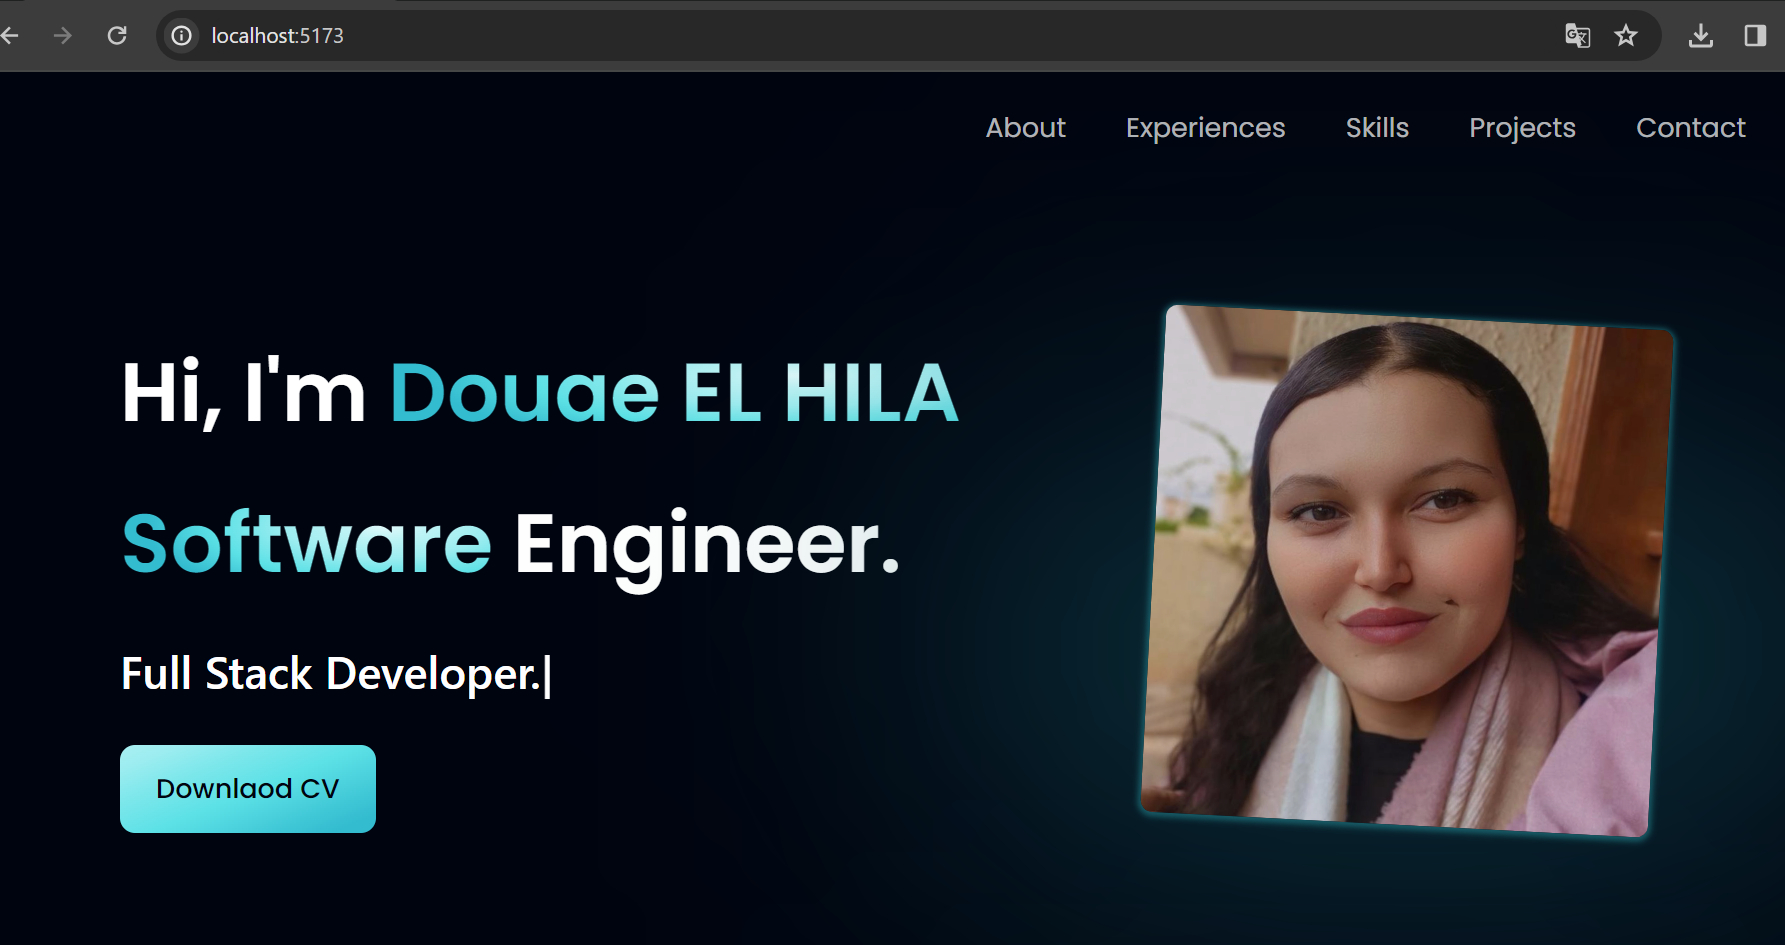
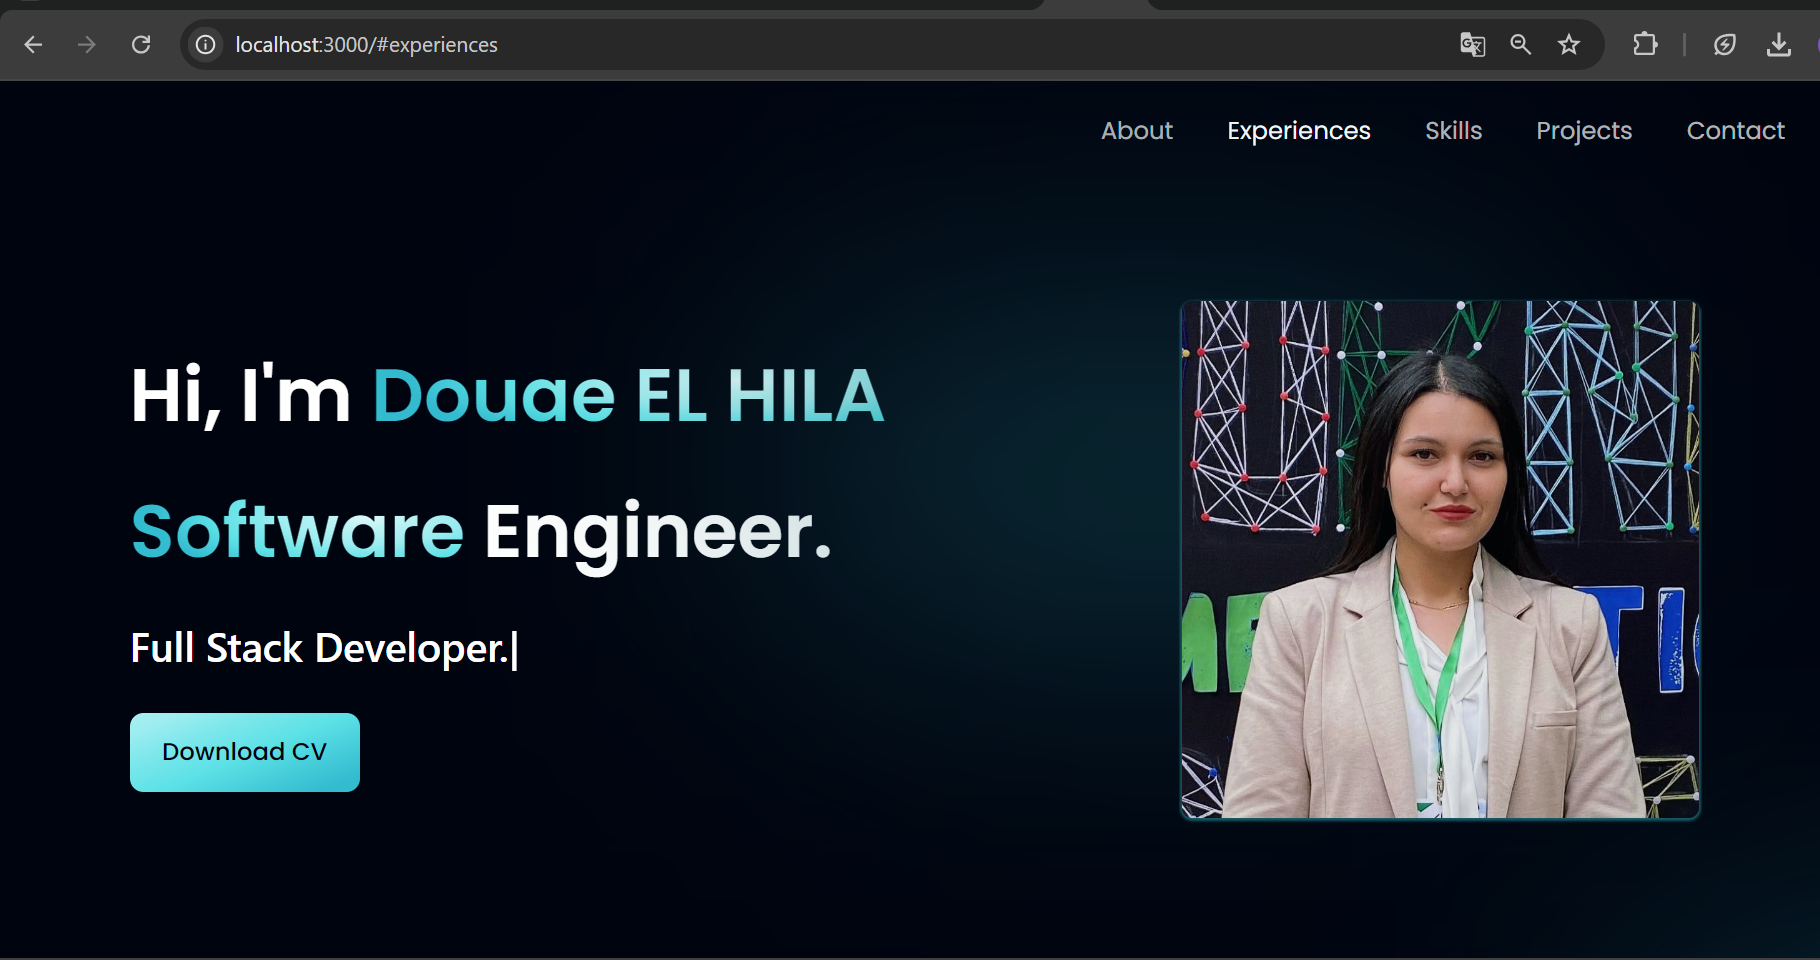
Third commit

diff --git a/src/constants/index.js b/src/constants/index.js
@@ -1,5 +1,6 @@
-import { html , css , js , tailwind , bootstrap , react, java ,spring, springboot , mysql , php , laravel,
-  vscode, eclipse , github , git , slack, trello, intellij, docker , emailjs
+import {
+    html, css, js, tailwind, bootstrap, react, java, spring, springboot, mysql, php, laravel,
+    vscode, eclipse, github, git, slack, trello, intellij, docker, emailjs, postgresql, elasticsearch , nextjs
 } from "../assets";
 import React from "react";
 
@@ -96,9 +97,16 @@ export const aboutData = [
 
 export const experiences = [
     {
-        date: "Sept 2020 - June 2022",
+        date: "Sept 2023 - June 2024",
         title: "Ecole Nationale des Sciences Appliquées Oujda",
-        text: "Preparatory Cycle - Sciences and Techniques for Engineering. Algorithms and C Programming Language",
+        text: "Continued Bachelor's Degree in Computer Engineering with focus on the following technologies:",
+        technologies: [
+            "Web Development Frameworks: React.js, Laravel",
+            "Java Framework: Spring",
+            "Design Patterns",
+            "Project Management Methodologies: Agile (Scrum, Kanban)",
+            "Distributed Systems and Microservices"
+        ]
     },
     {
         date: "Sept 2022 - June 2023",
@@ -114,34 +122,41 @@ export const experiences = [
         ]
     },
     {
-        date: "June 15, 2023 - July 15, 2023",
-        title: "Internship at FCPO Web Development Agency",
-        text: "During this one-month internship, gained practical experience in web development at FCPO Web Development Agency. Received an internship certificate.",
+        date: "Sept 2020 - June 2022",
+        title: "Ecole Nationale des Sciences Appliquées Oujda",
+        text: "Preparatory Cycle - Sciences and Techniques for Engineering. Algorithms and C Programming Language",
+    },
+    {
+        date: "1st of July , 2024 - August 30 , 2024",
+        title: "Internship at Novelis Oujda",
+        text: "This internship allowed me to gain valuable experience in integrating advanced AI solutions and developing applications based on language models.",
         linkText: "View Certificate",
         linkUrl: "https://www.linkedin.com/in/douae-el-hila-252809244/overlay/certifications/1887351806/multiple-media-viewer/?profileId=ACoAADyh3h4B5CwX9BW9Ox7cxrIwsOti71243do&treasuryMediaId=1704841885982",
     },
     {
-        date: "Sept 2023 - June 2024",
-        title: "Ecole Nationale des Sciences Appliquées Oujda",
-        text: "Continued Bachelor's Degree in Computer Engineering with focus on the following technologies:",
-        technologies: [
-            "Web Development Frameworks: React.js, Laravel",
-            "Java Framework: Spring",
-            "Design Patterns",
-            "Project Management Methodologies: Agile (Scrum, Kanban)",
-            "Distributed Systems and Microservices"
-        ]
-    },
-    {
-        date: "April 2024",
-        title: "AmigosCode - Spring Boot for Beginners",
-        text: "Completed this course offered by AmigosCode. Covered fundamental concepts of Spring Boot, including setting up a Spring Boot application, building RESTful APIs, and integrating with databases.",
+        date: "June 15, 2023 - August 15, 2023",
+        title: "Internship at FCPO Web Development Agency",
+        text: "During this internship, gained practical experience in web development at FCPO Web Development Agency. Received an internship certificate.",
         linkText: "View Certificate",
-        linkUrl: "https://drive.google.com/file/d/12j8sCkLADZk_PHdRlL2M7Bo7irE4jCaY/view?usp=sharing",
+        linkUrl: "https://www.linkedin.com/in/douae-el-hila-252809244/overlay/certifications/1887351806/multiple-media-viewer/?profileId=ACoAADyh3h4B5CwX9BW9Ox7cxrIwsOti71243do&treasuryMediaId=1704841885982",
+    },
+    {
+        date: "May 2024",
+        title: "Certification Coursera - Spring Data Repositories",
+        text: "Completed this course on Spring Data Repositories, learning key concepts like CRUD operations, pagination, sorting, and custom queries to manage data efficiently in Java applications.",
+        linkText: "View Certificate",
+        linkUrl: "https://drive.google.com/file/d/1jEJoHaauFmRMkmQbnR3GSPiNG32_U-tU/view?usp=sharing",
     },
     {
         date: "April 2024",
-        title: "AmigosCode - Spring Security",
+        title: "Certification Coursera - Spring MVC, Spring Boot and Rest Controllers",
+        text: "Completed this course on Coursera covering Spring MVC, Spring Boot, and Rest Controllers. Learned about building web applications with Spring MVC, creating RESTful APIs with Spring Boot, and implementing controllers for handling web requests.",
+        linkText: "View Certificate",
+        linkUrl: "https://drive.google.com/file/d/1KKssCSSBERQLhXdesJuwSjEAFYT9FB5T/view?usp=sharing",
+    },
+    {
+        date: "April 2024",
+        title: "Certification AmigosCode - Spring Security",
         text: "Completed this offered by AmigosCode. Explored advanced security features in Spring, including authentication, authorization, and securing RESTful APIs.",
         linkText: "View Certificate",
         linkUrl: "https://drive.google.com/file/d/1x30b-iKyqt7Yghjl65kZSjlljZBTNCH2/view?usp=sharing",
@@ -155,10 +170,13 @@ export const skills = [
     { icon: tailwind, tooltip: 'Tailwind CSS' },
     { icon: bootstrap, tooltip: 'Bootstrap' },
     { icon: react, tooltip: 'React Js' },
+    { icon: nextjs, tooltip: 'Next Js' },
     { icon: java, tooltip: 'Java' },
     { icon: spring, tooltip: 'Spring' },
     { icon: springboot, tooltip: 'Spring Boot' },
     { icon: mysql, tooltip: 'MySQL' },
+    { icon: postgresql, tooltip: 'PostgreSQL' },
+    { icon: elasticsearch, tooltip: 'ElasticSearch' },
     { icon: php, tooltip: 'PHP' },
     { icon: laravel, tooltip: 'Laravel' },
     { icon: emailjs, tooltip: 'Email Js' },
@@ -179,22 +197,22 @@ export const tools = [
 
 export const projects = [
     {
-        name: "BlogBurst Blog Website",
-        duration: "2 months",
-        methodology: "Agile Methodology - Scrum, with 3 team members and 2 sprints.",
-        content: "Platform designed for blogging experiences. Administrators can manage users, categories, and posts, while users contribute content to public pages or specific categories. The platform encourages active participation of content creators.",
-        img: "blog.png",
-        technologies: [0, 1, 2, 10, 9],
-        href: "https://github.com/douaeelh2/blog",
+        name: "PFE Management PMastery",
+        duration: "4 months",
+        methodology: "Agile Methodology - Scrum, with 4 team members and 4 sprints.",
+        content: "This platform simplifies end-of-study project management by providing tools to coordinate supervisors, students, assignments, and defenses. It enables effortless allocation of projects, streamlined scheduling of defenses, and centralized organization.",
+        img: "pmastery.png",
+        technologies: [4, 5, 8, 7 , 10],
+        href: "https://github.com/douaeelh2/ContactApp",
     },
     {
-        name: "Home Renovation Services",
-        duration: "1 month",
-        methodology: "Agile Methodology - Scrum, with 2 team members and 1 sprint.",
-        content: "Developed during my initiation internship. The application showcases the client's projects, their posts, their partners, and the services they offer such as Electricity, Plumbing, and Air Conditioning. Anyone interested can fill out a form on the desired service.",
-        img: "hrs.png",
-        technologies: [0, 1, 2, 4, 10, 9],
-        href: "https://hrs.fcpo.agency",
+        name: "IntelliAPI",
+        duration: "2 months",
+        methodology: "Agile Methodology - Scrum, with 2 team members and 2 sprints.",
+        content:"Developed a web application to read and parse OpenAPI files, select APIs, and use an LLM to translate natural language queries into API calls. The application generates graphs, lists, and tables to visualize and analyze the data.",
+        img: "dashboard1.png",
+        technologies: [3, 6, 9, 8 , 11],
+        href: "https://drive.google.com/file/d/1hrbOVMdeM8HwT38q5ureKqfRvhKWZyN0/view?usp=sharing",
     },
     {
         name: "Project Task Management",
@@ -202,24 +220,33 @@ export const projects = [
         methodology: "Agile Methodology - Scrum, with 3 team members and 3 sprints.",
         content: "Comprehensive management site that enables teams to collaborate by tracking projects, tasks, and users. With a user-friendly interface, our site aims to simplify project planning, task assignment, and overall project management.",
         img: "project-task.png",
-        technologies: [3, 5, 11, 9],
+        technologies: [3, 5, 14, 10],
         href: "https://github.com/douaeelh2/Project-Task-Management",
     },
     {
-        name: "PFE Management PMastery",
-        duration: "4 months",
-        methodology: "Agile Methodology - Scrum, with 4 team members and 4 sprints.",
-        content: "This platform simplifies end-of-study project management by providing tools to coordinate supervisors, students, assignments, and defenses. It enables effortless allocation of projects, streamlined scheduling of defenses, and centralized organization.",
-        img: "pmastery.png",
-        technologies: [4, 5, 8, 7 , 9],
-        href: "https://github.com/douaeelh2/ContactApp",
+        name: "BlogBurst Blog Website",
+        duration: "2 months",
+        methodology: "Agile Methodology - Scrum, with 3 team members and 2 sprints.",
+        content: "Platform designed for blogging experiences. Administrators can manage users, categories, and posts, while users contribute content to public pages or specific categories. The platform encourages active participation of content creators.",
+        img: "blog.png",
+        technologies: [0, 1, 2, 13, 10],
+        href: "https://github.com/douaeelh2/blog",
+    },
+    {
+        name: "Home Renovation Services",
+        duration: "2 months",
+        methodology: "Agile Methodology - Scrum, with 2 team members and 2 sprints.",
+        content: "Developed during my initiation internship. The application showcases the client's projects, their posts, their partners, and the services they offer such as Electricity, Plumbing, and Air Conditioning. Anyone interested can fill out a form on the desired service.",
+        img: "hrs.png",
+        technologies: [0, 1, 2, 4, 13, 10],
+        href: "https://hrs.fcpo.agency",
     },
     {
         name: "My Portfolio",
         duration: "1 month",
         content: "Explore my portfolio seamlessly integrated within the projects section. See firsthand how I leverage my full stack skills to create a cohesive user experience while showcasing my professional journey and technical expertise.",
         img: "portfolio.png",
-        technologies: [3, 5, 12],
+        technologies: [3, 5, 15],
         href: "https://github.com/douaeelh2/MyPortfolio",
     },
     {
@@ -228,9 +255,10 @@ export const projects = [
         methodology: "Agile Methodology - Scrum, with 3 team members and 1 sprint.",
         content: "This Mobile Application aims to provide contact management such as adding, editing, deleting, searching contacts, and displaying details for each contact.",
         img: "contactapp.png",
-        technologies: [6],
+        technologies: [7],
         href: "https://github.com/douaeelh2/ContactApp",
-    },
+    }
+
 ];
 
 

diff --git a/src/widgets/Toast.jsx b/src/widgets/Toast.jsx
@@ -1,25 +1,32 @@
+// components/Toast.js
 import { motion } from 'framer-motion';
 
-const Toast = () => (
+const Toast = ({ closeToast, type, message }) => (
     <motion.div
         initial={{ opacity: 0, y: -100 }}
         animate={{ opacity: 1, y: 0 }}
         exit={{ opacity: 0, y: -100 }}
-        className="max-w-xs feature-card border border-gray-700 rounded-xl shadow-lg toast-right z-50"
-        role="alert">
+        className={`max-w-xs feature-card border rounded-xl shadow-lg toast-right z-50 ${type === 'success' ? 'bg-green-500' : 'bg-red-500'}`}
+        role="alert"
+    >
         <div className="flex p-4">
             <div className="flex-shrink-0">
-                <svg className="flex-shrink-0 size-4 text-teal-400 mt-0.5"
-                     xmlns="http://www.w3.org/2000/svg" width="16" height="16" fill="currentColor"
-                     viewBox="0 0 16 16">
-                    <path
-                        d="M16 8A8 8 0 1 1 0 8a8 8 0 0 1 16 0zm-3.97-3.03a.75.75 0 0 0-1.08.022L7.477 9.417 5.384 7.323a.75.75 0 0 0-1.06 1.06L6.97 11.03a.75.75 0 0 0 1.079-.02l3.992-4.99a.75.75 0 0 0-.01-1.05z"></path>
-                </svg>
+                {type === 'success' ? (
+                    <svg className="flex-shrink-0 size-4 text-teal-400 mt-0.5" xmlns="http://www.w3.org/2000/svg" width="16" height="16" fill="currentColor" viewBox="0 0 16 16">
+                        <path d="M16 8A8 8 0 1 1 0 8a8 8 0 0 1 16 0zm-3.97-3.03a.75.75 0 0 0-1.08.022L7.477 9.417 5.384 7.323a.75.75 0 0 0-1.06 1.06L6.97 11.03a.75.75 0 0 0 1.079-.02l3.992-4.99a.75.75 0 0 0-.01-1.05z"></path>
+                    </svg>
+                ) : (
+                    <svg className="flex-shrink-0 size-4 text-red-400 mt-0.5" xmlns="http://www.w3.org/2000/svg" width="16" height="16" fill="currentColor" viewBox="0 0 16 16">
+                        <path d="M8 1.5a6.5 6.5 0 1 0 0 13A6.5 6.5 0 0 0 8 1.5zm.5 9.5a.5.5 0 1 1-1 0V7.5a.5.5 0 1 1 1 0v3.5zM8 6a.5.5 0 0 1-.5-.5V5a.5.5 0 0 1 1 0v.5A.5.5 0 0 1 8 6z"></path>
+                    </svg>
+                )}
             </div>
             <div className="ms-3">
-                <p className="text-sm text-gray-200">
-                    Your email has been sent successfully! </p>
+                <p className="text-sm text-white">
+                    {message}
+                </p>
             </div>
+            <button className="ml-4 text-white" onClick={closeToast}>×</button>
         </div>
     </motion.div>
 );

diff --git a/src/components/Hero.jsx b/src/components/Hero.jsx
@@ -35,8 +35,8 @@ const Hero = () => {
                     <div className="flex items-center flex-col sm:flex-row mt-8">
                         <button type="button"
                                 className={`py-4 px-6 font-poppins font-medium text-[18px] text-primary bg-blue-gradient hover:scale-[0.99] rounded-[10px] outline-none ${styles}`}>
-                            <a href="https://drive.google.com/file/d/1sVElSEZEH0Ixl_NX4pAH-G9WRUAkNNiZ/view?usp=sharing" target="_blank" rel="noopener noreferrer">Download
-                                CV</a>
+                            <a href="https://drive.google.com/file/d/15RiKmR_B6o790jp6r1176v8kpHgd4_dQ/view?usp=sharing" target="_blank" rel="noopener noreferrer">
+                                Download CV</a>
                         </button>
                     </div>
                 </div>
@@ -44,8 +44,8 @@ const Hero = () => {
                 {/* image section */}
                 <div className="col-span-12 md:col-span-6 lg:col-span-5 md:w-[70%] lg:w-[75%] h-[100%] hidden md:block">
                     <div
-                        className={`flex-1 flex ${styles.flexCenter} relative overflow-hidden rounded-lg transform rotate-3 feature-img`}>
-                        <img src="/images/DouaeELHILA.jpeg" alt="Hero" className="w-[100%] h-[100%] "/>
+                        className={`flex-1 flex ${styles.flexCenter} relative overflow-hidden rounded-lg transform feature-img`}>
+                        <img src="/images/doudou.jpeg" alt="Hero" className="w-[100%] h-[100%] "/>
                     </div>
                 </div>
             </div>

diff --git a/src/widgets/ExperienceCard.jsx b/src/widgets/ExperienceCard.jsx
@@ -10,7 +10,10 @@ const ExperienceCard = ({ index, date, title, text, technologies, linkText, link
                 <div className="flex-col items-center justify-between space-x-2 mb-1">
                     <time className="mb-1 text-sm font-normal leading-none text-gradient">{date}</time>
                     <h3 className="text-lg font-semibold text-gray-200 mt-2 mb-1">{title}</h3>
-                    <p className="text-sm leading-[26px] font-normal text-gray-500 mb-2">{text} <a href={linkUrl} target="_blank" rel="noopener noreferrer" className="text-gradient">{linkText}</a></p>
+                    <p className="text-md leading-[26px] font-normal text-gray-500 mb-2">{text}</p>
+                    <div className={"flex justify-end"}>
+                        <a href={linkUrl} target="_blank" rel="noopener noreferrer" className="text-gradient">{linkText}</a>
+                    </div>
                     {technologies && (
                         <div>
                             <ul className="list-disc ml-4">

diff --git a/src/components/Experiences.jsx b/src/components/Experiences.jsx
@@ -7,7 +7,7 @@ const Experiences = () => (
         <div className="absolute z-[0] w-[25%] h-[25%] -left-[25%] rounded-full blue__gradient top-[-5%]" />
 
         <div className="py-8 lg:py-16 px-4 mx-auto max-w-screen-sm z-50">
-            <h2 className={`${styles.heading2Center}`}>What Have I Learned From My Experiences ?</h2>
+            <h2 className={`${styles.heading2Center}`}>What Have I Learned From My Education and Experiences ?</h2>
             <p className={`${styles.paragraphCenter}`}>
                 Take a deep dive into my professional experiences, from my early career beginnings to my latest ventures.
                 Discover how my journey has equipped me with the skills and insights to tackle new challenges and drive success.

diff --git a/src/widgets/ProjectCard.jsx b/src/widgets/ProjectCard.jsx
@@ -4,7 +4,7 @@ import styles from "../style";
 const ProjectCard = ({ name, duration, methodology, content, img, technologies, href }) => (
     <div className="mb-12 lg:mb-0 feedback-card p-7 rounded-lg border border-gray-700 shadow-xl">
         <div className="relative sm:mb-6 mb-4 overflow-hidden rounded-lg bg-cover bg-no-repeat shadow-black/20 bg-[50%]">
-            <img src={`/images/${img}`} className="w-full lg:h-[250px]" alt={"project img"} />
+            <img src={`/images/${img}`} className="w-full lg:h-[300px]" alt={"project img"} />
         </div>
         <h5 className="font-poppins font-semibold sm:text-[28px] text-[23px] text-white w-full mb-3">{name}</h5>
 

diff --git a/src/assets/index.js b/src/assets/index.js
@@ -21,11 +21,14 @@ import intellij from  "./intellij.png";
 import docker from "./docker.png"
 import springboot from "./springboot.png"
 import emailjs from "./emailjs.png";
+import postgresql from "./postgresql.png";
+import elasticsearch from "./elasticsearch.png";
+import nextjs from "./nextjs.png";
 
 export {
   menu,
   close,
 
   html, css , js , tailwind , bootstrap , react, java ,spring, springboot , mysql , php , laravel,
-  vscode, eclipse , github , git , slack, trello,intellij, docker, emailjs
+  vscode, eclipse , github , git , slack, trello,intellij, docker, emailjs , postgresql, elasticsearch , nextjs
 };
